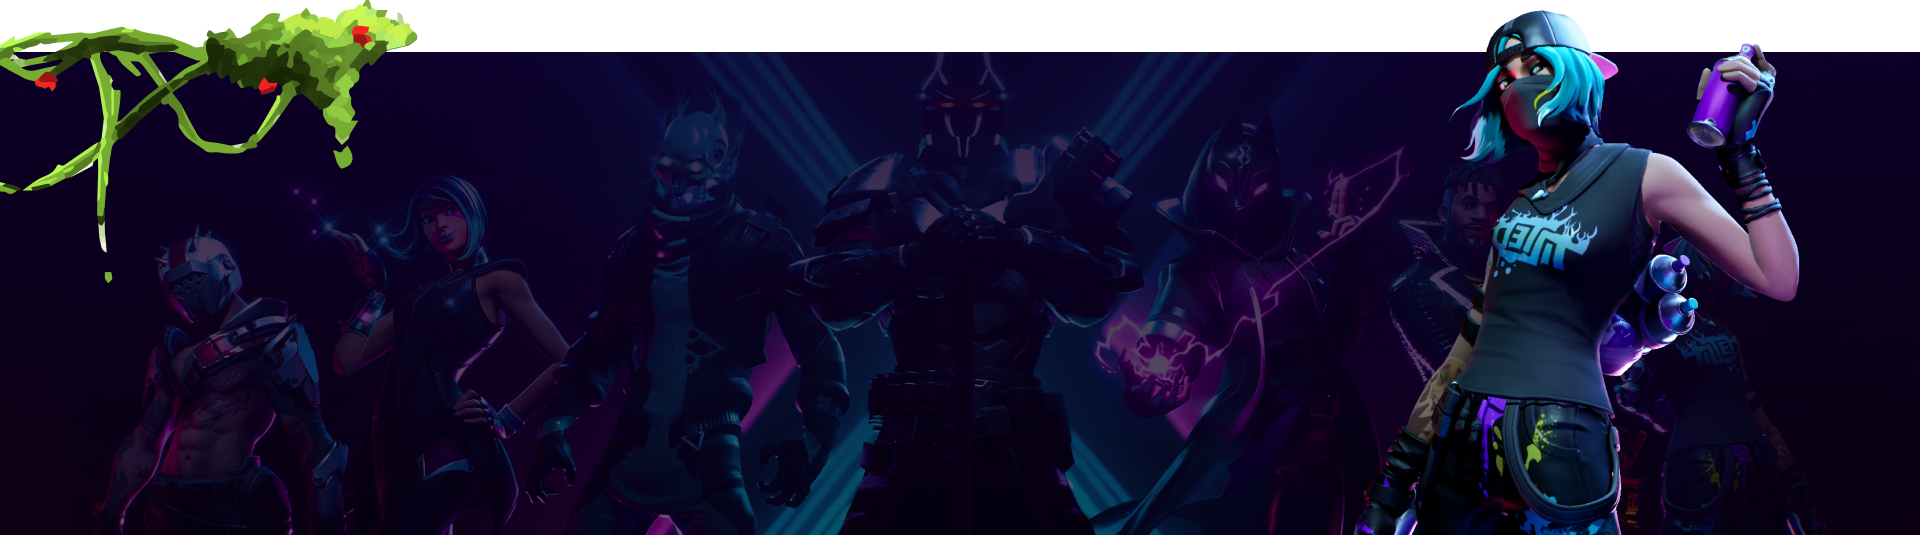
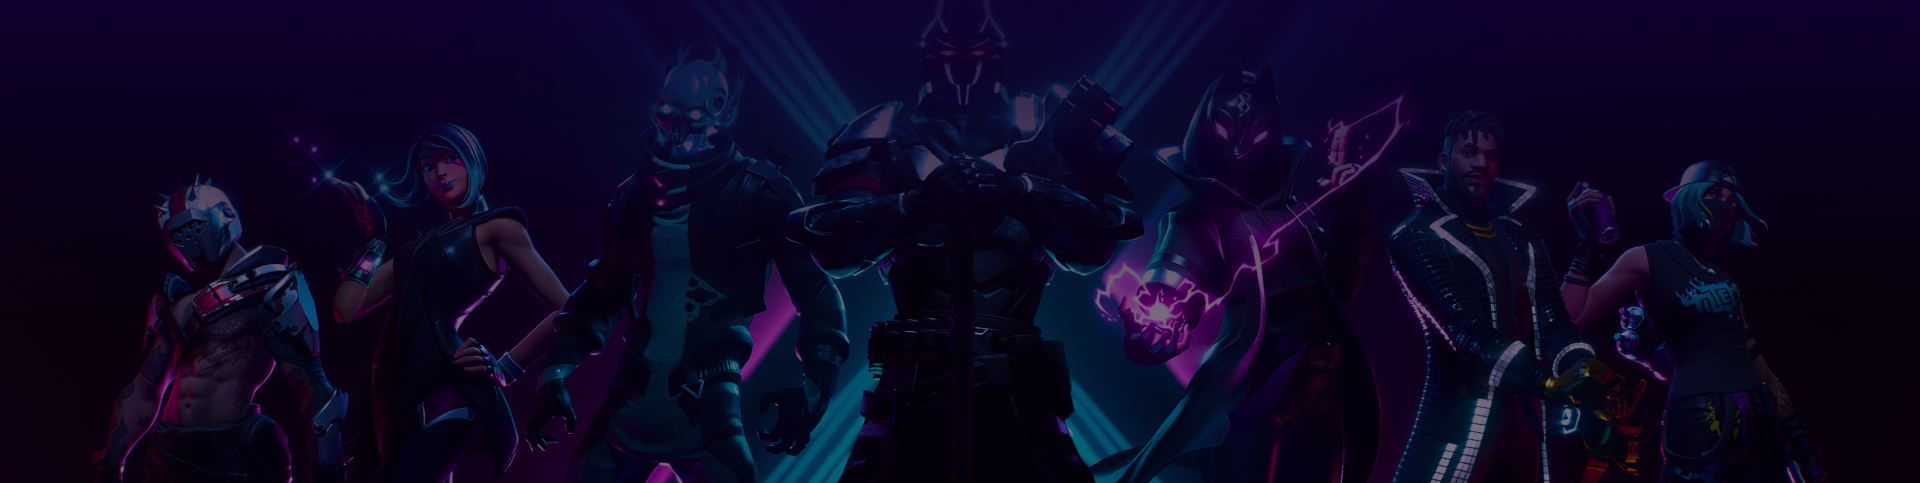
adapting fix

diff --git a/styles/media.scss b/styles/media.scss
@@ -148,7 +148,9 @@
 
 @media screen and (max-width: 1380px) {
     .main-banner .slider-item.first {
-        background: url("../../img/main-banner/banner.png") top left -250px no-repeat;
+        background: url("../../img/main-banner/woman.png") bottom right 0% /447px no-repeat, 
+            url("../../img/main-banner/banner.png") bottom left -250px no-repeat;
+        // background: url("../../img/main-banner/banner.png") top left -250px no-repeat;
     }
 }
 
@@ -201,7 +203,8 @@
 
 @media screen and (max-width: 1175px) { 
     .main-banner .slider-item.first {
-        background: url("../../img/main-banner/banner.png") top left -360px no-repeat;
+        background: url("../../img/main-banner/woman.png") bottom right 0% /447px no-repeat, 
+            url("../../img/main-banner/banner.png") bottom left -360px no-repeat;
     }
 }
 
@@ -272,7 +275,12 @@
     }
 
     .main-banner .slider-item.first {
+        height: 483px;
         background: url("../../img/main-banner/banner.png") top left -460px no-repeat;
+    }
+
+    .main-banner .banner-img {
+        top: -10%;
     }
 }
 
@@ -471,6 +479,11 @@
 }
 
 @media screen and (max-width: 665px) {
+    .main-banner .banner-img {
+        width: 300px;
+        top: -7%;
+    }
+
     .special-block__title-main {
         text-align: center;
     }
@@ -693,6 +706,9 @@
 }
 
 @media screen and (max-width: 530px) { 
+    .special-block__items-item__content__val .value::after {
+        right: 48%;
+    }
     .special-block__items-item__content__price, .special-block__items-item__content {
         margin-top: 15px;
     }
@@ -703,15 +719,18 @@
     .special-block__items-item__content__price .price-block p {
         font-size: 0.875rem;
     }
-
+    .special-block__items-item__content__price .price-discount p, .special-block__items-item__content__price .price-block p {
+        font-size: 0.9375rem;
+    }
+    .special-block__items-item__content__price .price-discount-size, .special-block__items-item__content__price .price-block-size {
+        font-size: 0.775rem;
+    }
     .special-block__items-item__content__val .value {
         font-size: 1.875rem;
     }
-
     .special-block__items-item__content__val .sub {
         font-size: 0.75rem;
     }
-
     .special-block__items-item {
         padding: 25px 0 28px 31px;
     }
@@ -742,16 +761,6 @@
         left: 0;
         text-align: center;
     }
-}
-
-@media screen and (max-width: 450px) { 
-    .special-block__title-shadow {
-        font-size: 5.5rem;
-        top: -92%;
-    }
-}
-
-@media screen and (max-width: 500px) {
     .fortnite-packages {
         & h2 {
             font-size: 28px;
@@ -860,10 +869,18 @@
     }
 }
 
-@media screen and (max-width: 450px) {
+@media screen and (max-width: 460px) { 
     .special-block {
         max-width: 90%;
     }
+}
+
+@media screen and (max-width: 450px) {
+    .special-block__title-shadow {
+        font-size: 5.5rem;
+        top: -92%;
+    }
+
     .fortnite-packages {
         padding: 160px 0 30px 0;
 
@@ -918,6 +935,13 @@
     }
 }
 
+@media screen and (max-width: 420px) {
+    .main-banner .banner-img {
+        width: 200px;
+        top: -5%;
+    }
+}
+
 @media screen and (max-width: 415px) {
     .special-block__items-item__content__img {
         max-width: 154px;
@@ -964,6 +988,9 @@
 }
 
 @media screen and (max-width: 380px) {
+    nav {
+        margin-bottom: 40px;
+    }
     .vbucks__blocks__block .right__btn .btn .text p {
         margin-right: 6px;
     }
@@ -986,6 +1013,11 @@
 }
 
 @media screen and (max-width: 378px) {
+    .main-banner .banner-img {
+        width: 150px;
+        top: -8%;
+    }
+
     .special-block__items-item__offer {
         font-size: 0.8125rem;
         max-width: 147px;

diff --git a/styles/css/media.css b/styles/css/media.css
@@ -130,7 +130,7 @@
 
 @media screen and (max-width: 1380px) {
   .main-banner .slider-item.first {
-    background: url("../../img/main-banner/banner.png") top left -250px no-repeat;
+    background: url("../../img/main-banner/woman.png") bottom right 0%/447px no-repeat, url("../../img/main-banner/banner.png") bottom left -250px no-repeat;
   }
 }
 
@@ -179,7 +179,7 @@
 
 @media screen and (max-width: 1175px) {
   .main-banner .slider-item.first {
-    background: url("../../img/main-banner/banner.png") top left -360px no-repeat;
+    background: url("../../img/main-banner/woman.png") bottom right 0%/447px no-repeat, url("../../img/main-banner/banner.png") bottom left -360px no-repeat;
   }
 }
 
@@ -234,7 +234,11 @@
     margin-left: 10px;
   }
   .main-banner .slider-item.first {
+    height: 483px;
     background: url("../../img/main-banner/banner.png") top left -460px no-repeat;
+  }
+  .main-banner .banner-img {
+    top: -10%;
   }
 }
 
@@ -393,6 +397,10 @@
 }
 
 @media screen and (max-width: 665px) {
+  .main-banner .banner-img {
+    width: 300px;
+    top: -7%;
+  }
   .special-block__title-main {
     text-align: center;
   }
@@ -554,6 +562,9 @@
 }
 
 @media screen and (max-width: 530px) {
+  .special-block__items-item__content__val .value::after {
+    right: 48%;
+  }
   .special-block__items-item__content__price, .special-block__items-item__content {
     margin-top: 15px;
   }
@@ -562,6 +573,12 @@
   }
   .special-block__items-item__content__price .price-block p {
     font-size: 0.875rem;
+  }
+  .special-block__items-item__content__price .price-discount p, .special-block__items-item__content__price .price-block p {
+    font-size: 0.9375rem;
+  }
+  .special-block__items-item__content__price .price-discount-size, .special-block__items-item__content__price .price-block-size {
+    font-size: 0.775rem;
   }
   .special-block__items-item__content__val .value {
     font-size: 1.875rem;
@@ -593,16 +610,6 @@
     left: 0;
     text-align: center;
   }
-}
-
-@media screen and (max-width: 450px) {
-  .special-block__title-shadow {
-    font-size: 5.5rem;
-    top: -92%;
-  }
-}
-
-@media screen and (max-width: 500px) {
   .fortnite-packages h2 {
     font-size: 28px;
   }
@@ -683,9 +690,16 @@
   }
 }
 
-@media screen and (max-width: 450px) {
+@media screen and (max-width: 460px) {
   .special-block {
     max-width: 90%;
+  }
+}
+
+@media screen and (max-width: 450px) {
+  .special-block__title-shadow {
+    font-size: 5.5rem;
+    top: -92%;
   }
   .fortnite-packages {
     padding: 160px 0 30px 0;
@@ -730,6 +744,13 @@
   }
 }
 
+@media screen and (max-width: 420px) {
+  .main-banner .banner-img {
+    width: 200px;
+    top: -5%;
+  }
+}
+
 @media screen and (max-width: 415px) {
   .special-block__items-item__content__img {
     max-width: 154px;
@@ -767,6 +788,9 @@
 }
 
 @media screen and (max-width: 380px) {
+  nav {
+    margin-bottom: 40px;
+  }
   .vbucks__blocks__block .right__btn .btn .text p {
     margin-right: 6px;
   }
@@ -785,6 +809,10 @@
 }
 
 @media screen and (max-width: 378px) {
+  .main-banner .banner-img {
+    width: 150px;
+    top: -8%;
+  }
   .special-block__items-item__offer {
     font-size: 0.8125rem;
     max-width: 147px;

diff --git a/styles/style.scss b/styles/style.scss
@@ -16,6 +16,7 @@ body {
 
 nav {
     background-color: #ffffff;
+    margin-bottom: 85px;
 
     .nav-block {
         display: flex;
@@ -23,7 +24,7 @@ nav {
         justify-content: space-between;
         width: 90%;
         height: 82px;
-        margin: 0 0 33px auto;
+        margin: 0 0 0 auto;
 
         &-logo {}
 
@@ -229,9 +230,17 @@ nav {
 
         &.first {
             width: 100%;
-            height: 483px;
-            background: url("../../img/main-banner/banner.png") no-repeat;
+            height: 530px;
+            background: url("../../img/main-banner/woman.png") bottom  right 10% /447px no-repeat, 
+                        url("../../img/main-banner/banner.png") bottom no-repeat;
+            background-size: auto;
         }
+    }
+
+    .banner-img {
+        position: absolute;
+        top: 0%;
+        left: 0;
     }
 
     .banner-content {
@@ -393,8 +402,6 @@ nav {
 
                         &::after {
                             content: url("../../img/special-offer/dots.svg");
-                            width: 25px;
-                            height: 25px;
                             position: absolute;
                             top: 0;
                             right: 29%;

diff --git a/styles/css/style.css b/styles/css/style.css
@@ -16,6 +16,7 @@ body {
 
 nav {
   background-color: #ffffff;
+  margin-bottom: 85px;
 }
 
 nav .nav-block {
@@ -24,7 +25,7 @@ nav .nav-block {
   justify-content: space-between;
   width: 90%;
   height: 82px;
-  margin: 0 0 33px auto;
+  margin: 0 0 0 auto;
 }
 
 nav .nav-block .menu-icon {
@@ -224,8 +225,15 @@ nav .menu-burger-block .menu-burger {
 
 .main-banner .slider-item.first {
   width: 100%;
-  height: 483px;
-  background: url("../../img/main-banner/banner.png") no-repeat;
+  height: 530px;
+  background: url("../../img/main-banner/woman.png") bottom right 10%/447px no-repeat, url("../../img/main-banner/banner.png") bottom no-repeat;
+  background-size: auto;
+}
+
+.main-banner .banner-img {
+  position: absolute;
+  top: 0%;
+  left: 0;
 }
 
 .main-banner .banner-content {
@@ -389,8 +397,6 @@ nav .menu-burger-block .menu-burger {
 
 .special-block__items-item__content__val .value::after {
   content: url("../../img/special-offer/dots.svg");
-  width: 25px;
-  height: 25px;
   position: absolute;
   top: 0;
   right: 29%;

diff --git a/index.html b/index.html
@@ -52,6 +52,7 @@
             </div>
             <div class="slider-wrapper">
                 <div class="slider-item first">
+                    <img class="banner-img" src="./img/main-banner/liana.svg" alt="">
                     <div class="banner-content">
                         <p class="banner-content__title">#1 CREATE ACCOUNT </p>
                         <p class="banner-content__text">At vero eos et accusamus et iusto odio dignissimos 
